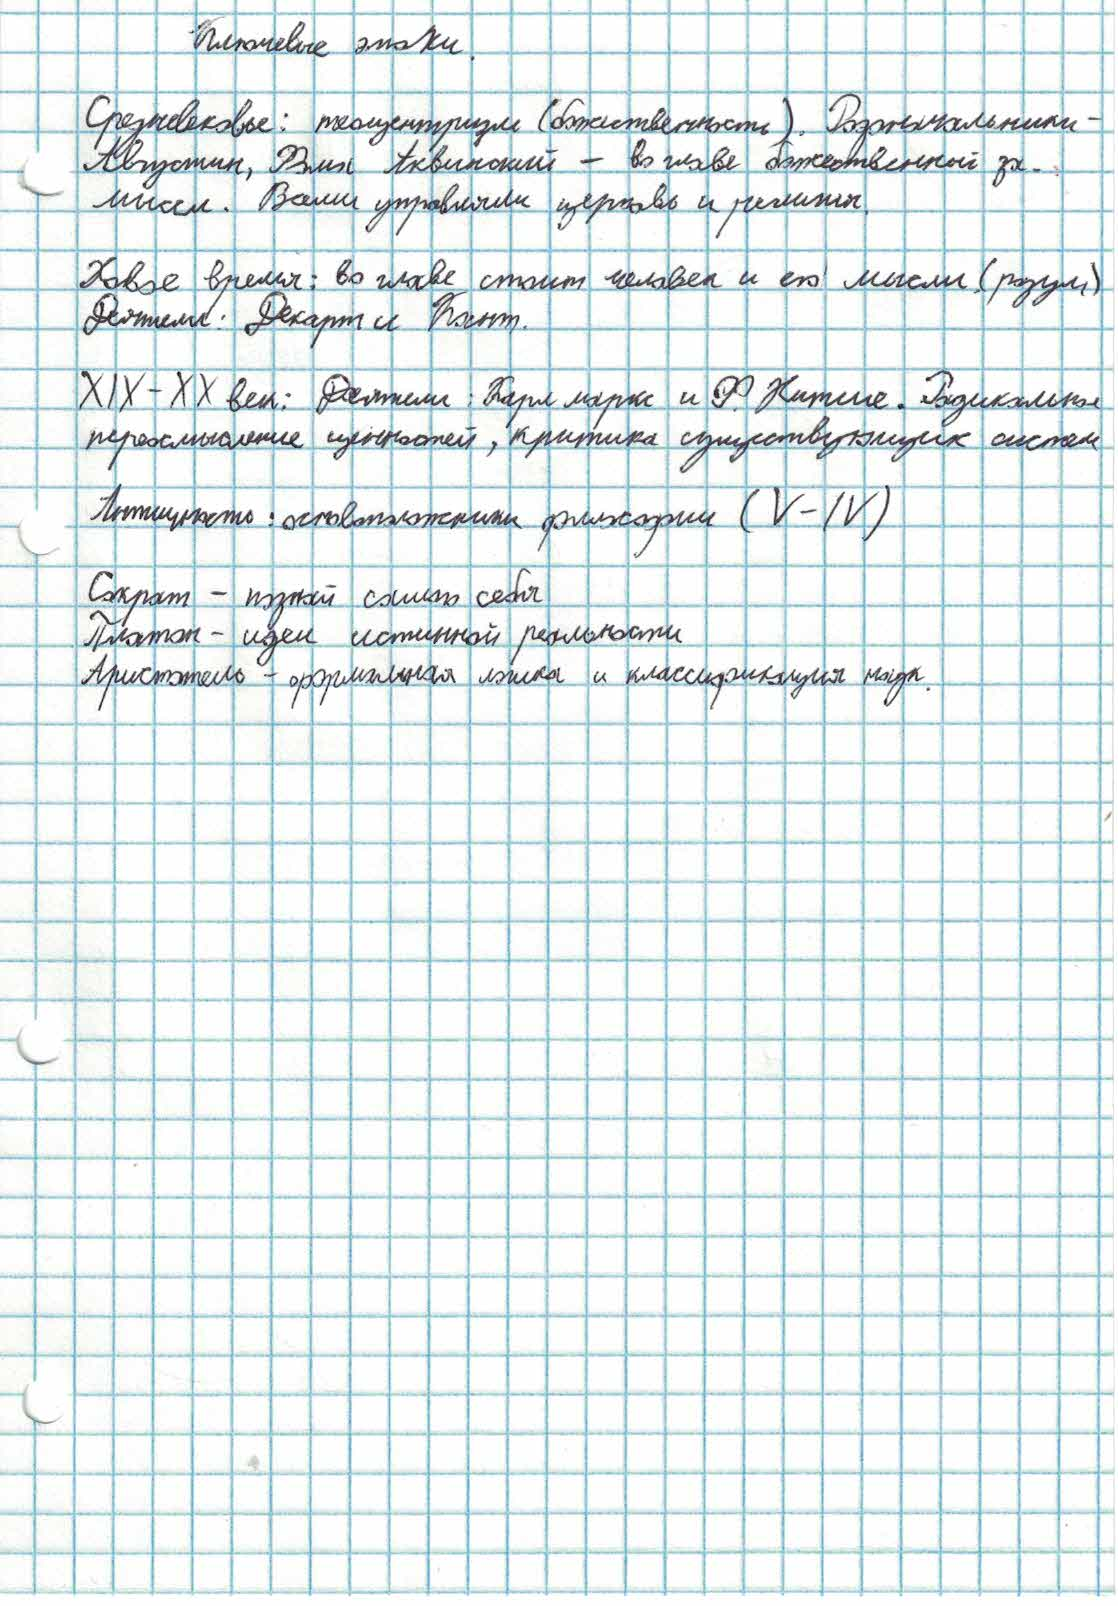
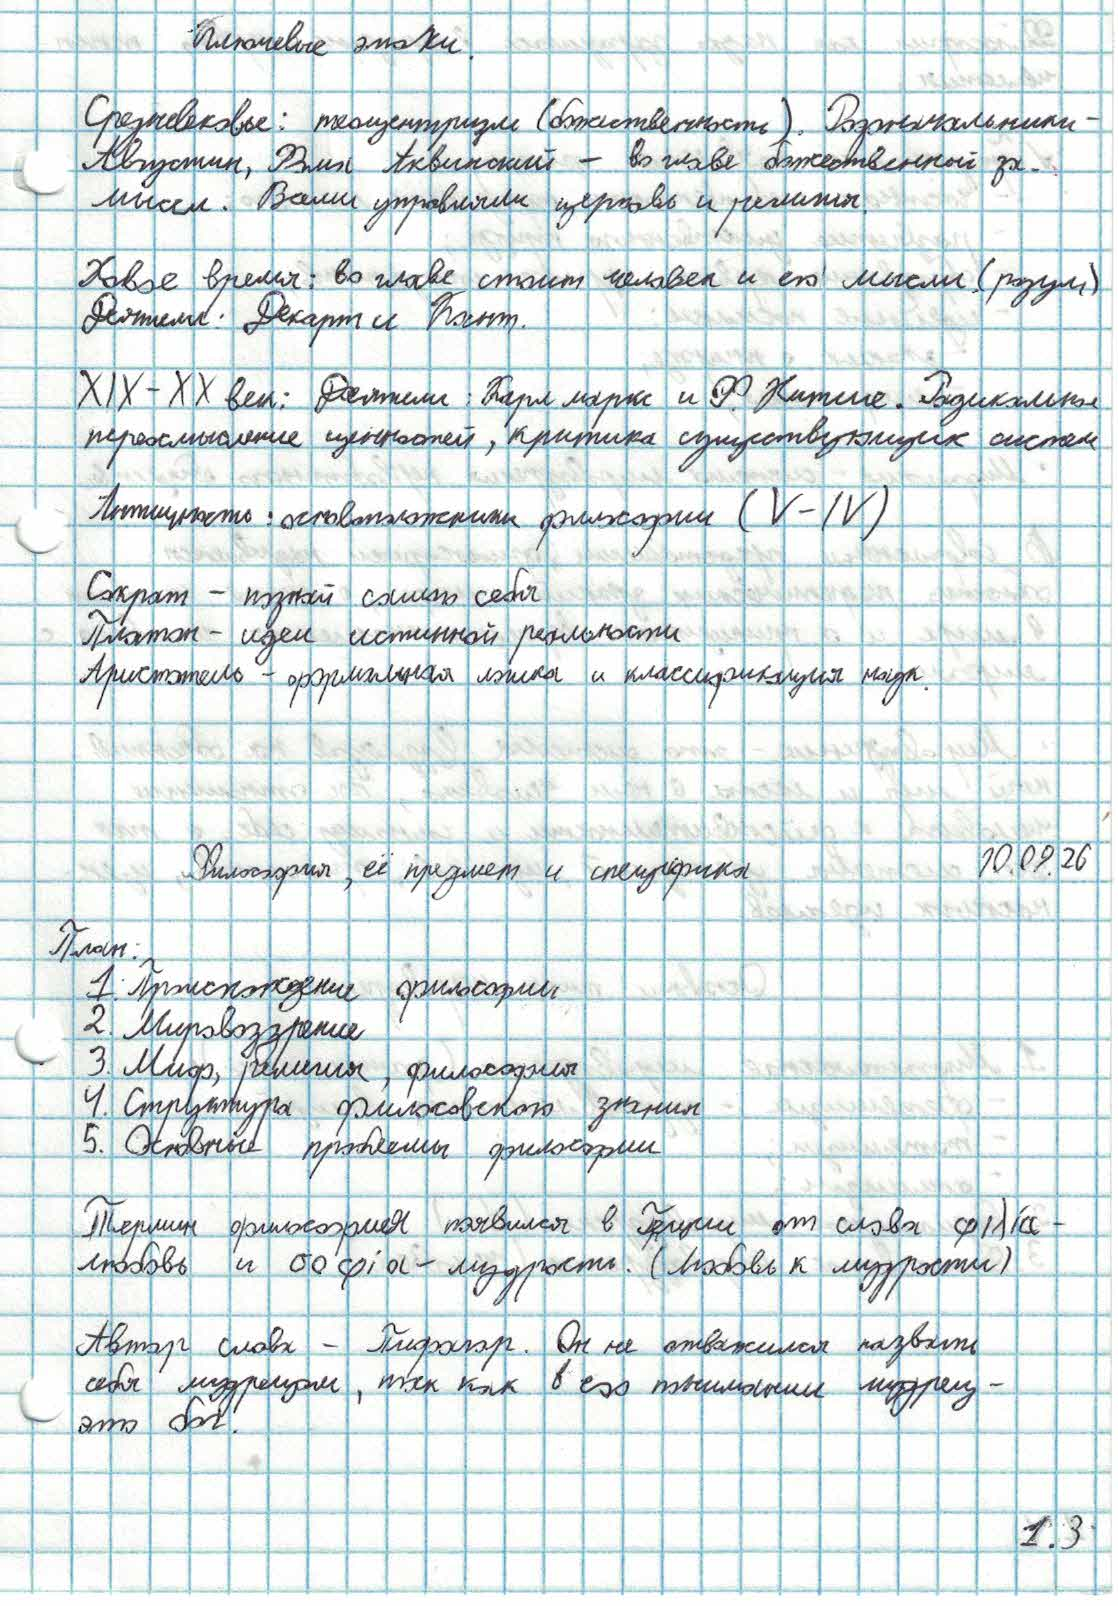
Update

Changed region(s): [[0.0, 0.0, 1.0, 0.9963]]

diff --git a/Философия/README.md b/Философия/README.md
@@ -1,7 +1,9 @@
 # СОДЕРЖАНИЕ
 
 - [03-09-2026] | **Введение в философию** | [**стр. 1**](001.jpg) [**стр. 2**](002.jpg) [**стр. 3**](003.jpg)
+- [10-09-2026] | **Философия, её предмет и спецификация** | [**стр. 3**](003.jpg) [**стр. 4**](004.jpg) [**стр. 5**](005.jpg) [**стр. 6**](006.jpg)
+- [11-09-2026] | **Древняя - античная философия** | [**стр. 6**](006.jpg) [**стр. 7**](007.jpg) [**стр. 8**](008.jpg) [**стр. 9**](009.jpg)
 
 ## Проверочные
 
-- [**03-09-26**](./Проверочные/260903.jpg)
+- [**03-09-2026**](./Проверочные/260903.jpg)
